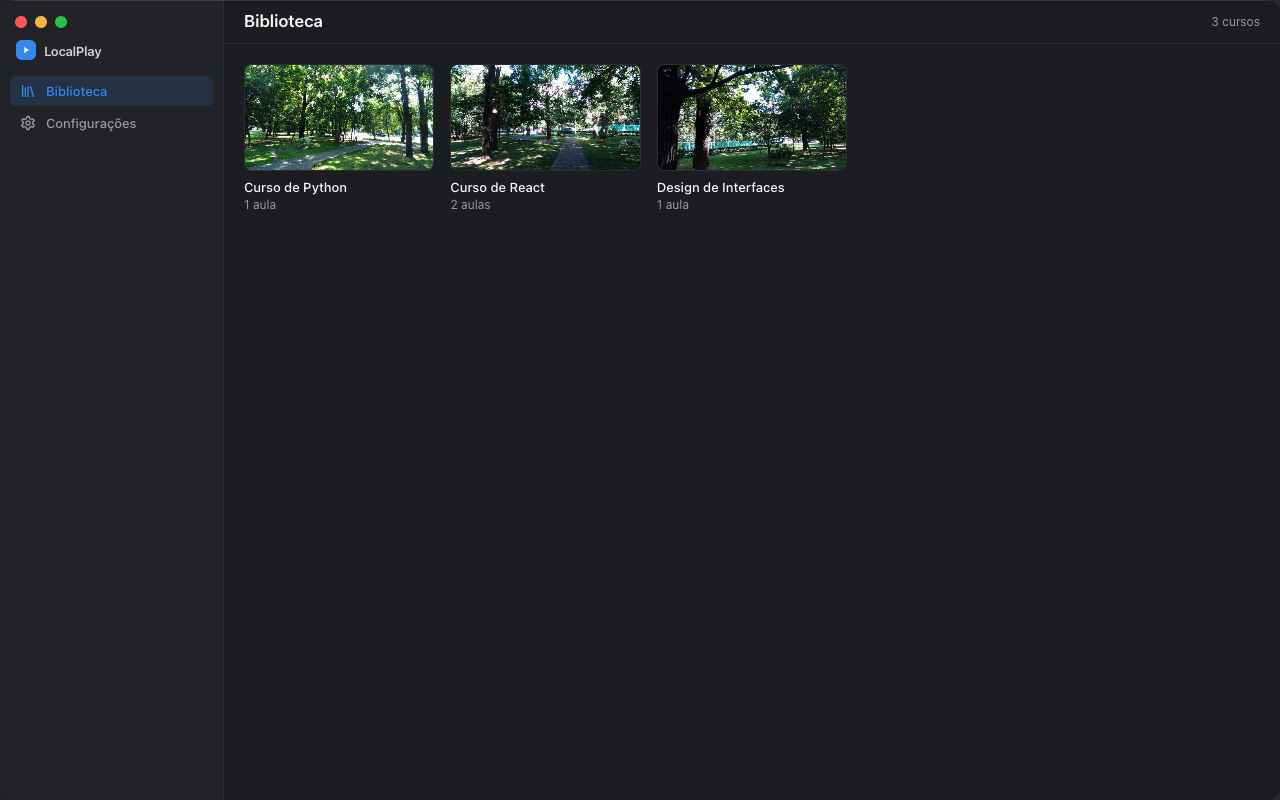
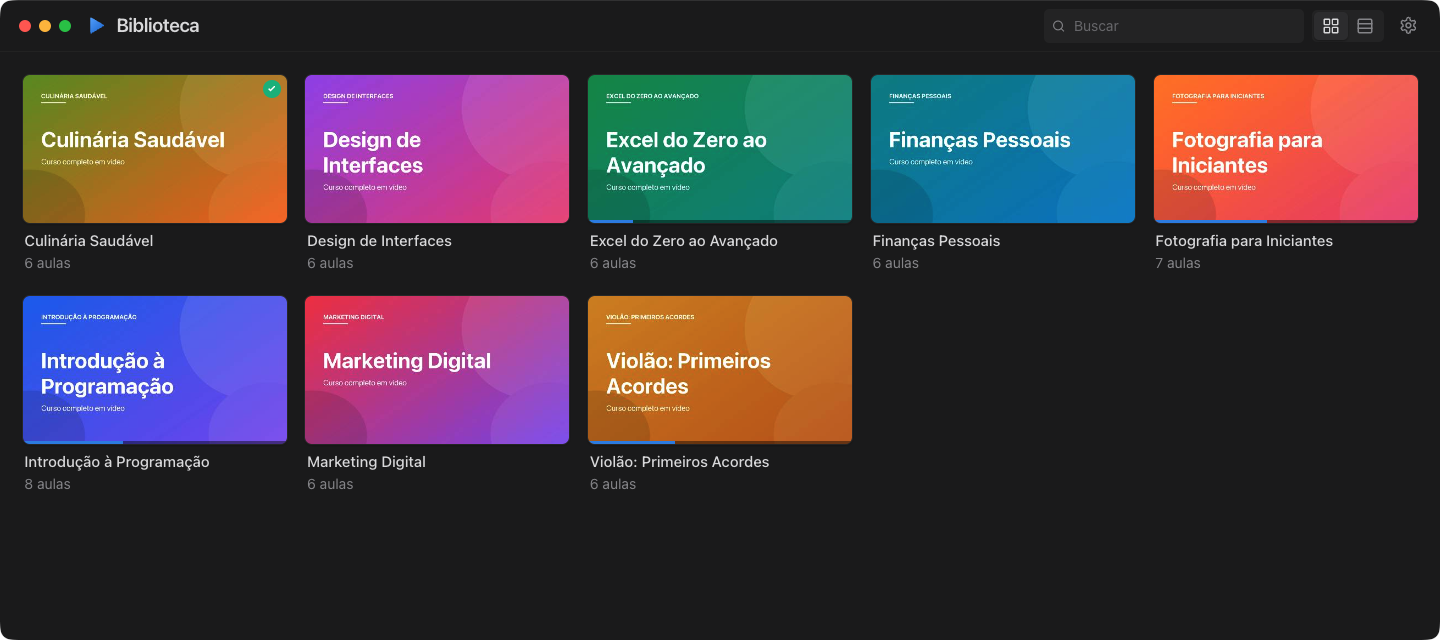
docs: mostrar as telas em um GIF no README
As duas imagens empilhadas viram um GIF que passa por cinco telas:
Biblioteca em grade e em lista, o player com o material de apoio, as
tabelas e blocos de codigo do material e as preferencias. Os prints
estaticos continuam em uma secao recolhivel.

As imagens foram feitas com cursos de demonstracao proprios, em
portugues, para nao usar conteudo de terceiros, e a tela de
preferencias mostra um caminho neutro em vez da pasta do usuario.

diff --git a/README.md b/README.md
@@ -24,9 +24,20 @@ Basta selecionar uma pasta e começar a assistir. **Tudo fica salvo localmente n
 - 100% offline, nenhum dado sai da máquina
 
 <div align="center">
+  <img src="docs/screenshots/apresentacao.gif" alt="Passeio pelas telas do LocalPlay: Biblioteca em grade e em lista, player com material de apoio e preferências" width="800">
+</div>
+
+<details>
+<summary>Ver as telas em tamanho original</summary>
+
+<br>
+
+<div align="center">
   <img src="docs/screenshots/biblioteca.png" alt="Tela da Biblioteca" width="800">
   <img src="docs/screenshots/curso.png" alt="Tela de um curso" width="800">
 </div>
+
+</details>
 
 ## Download
 
